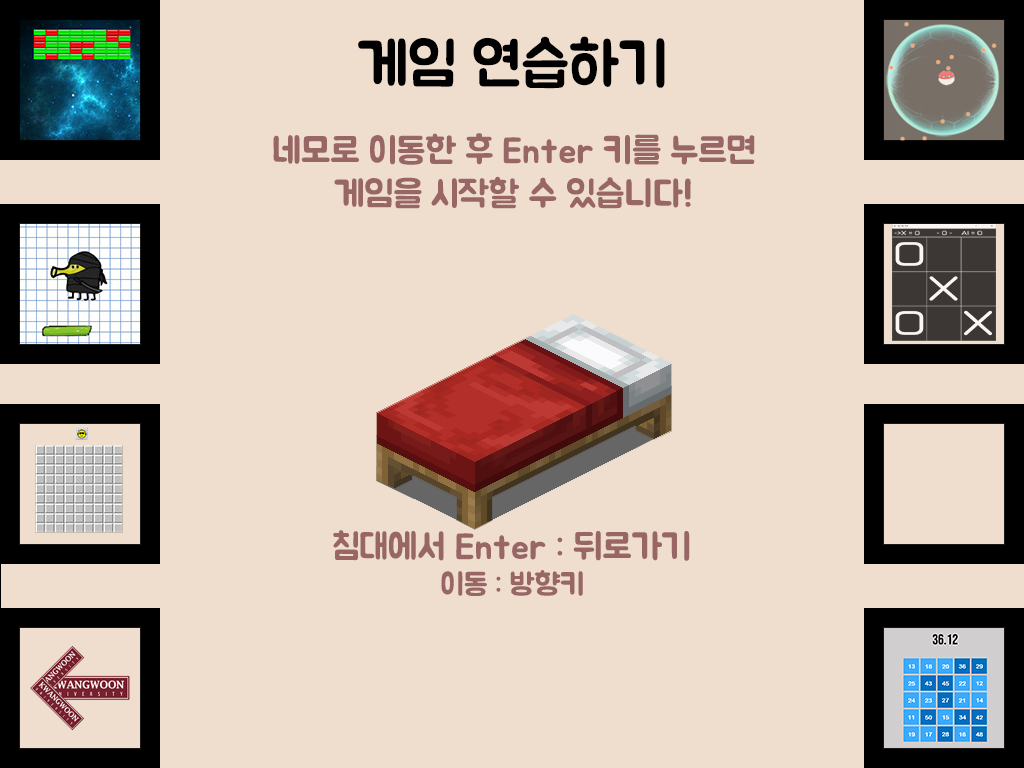
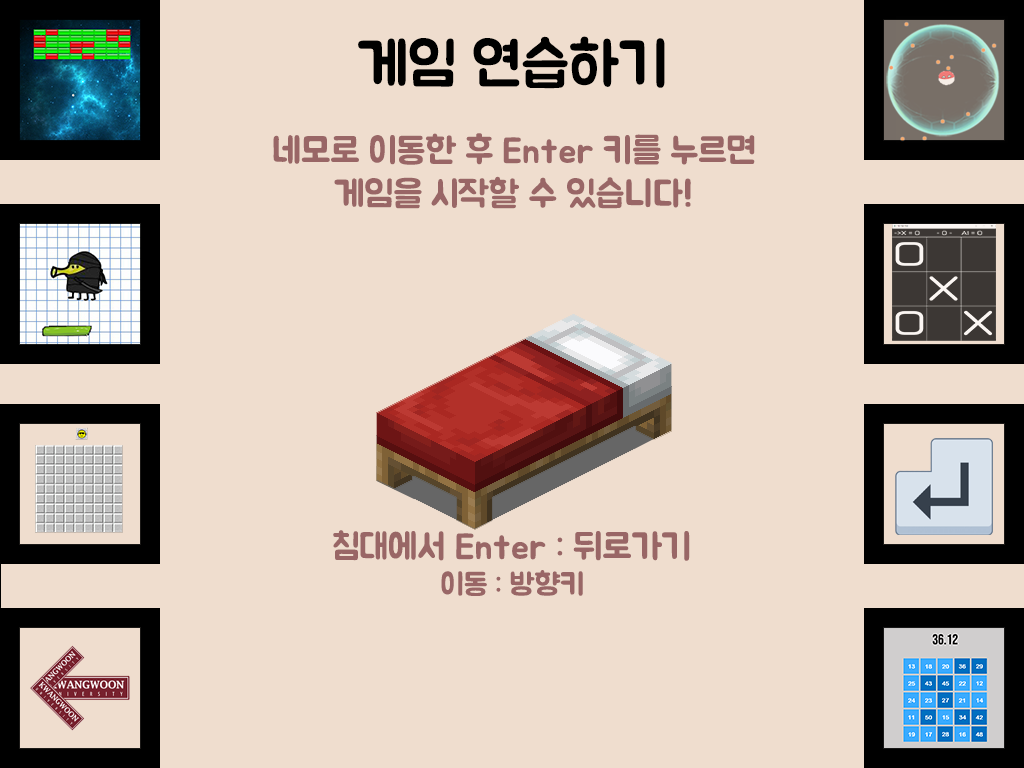
makers 메뉴 기초 작업

Changed region(s): [[0.875, 0.5625, 0.9688, 0.7188]]

diff --git a/kw_oss_team_4/game.h b/kw_oss_team_4/game.h
@@ -10,6 +10,8 @@ int main(int sw);
 void main_difficulty();
 void selectmode(int dif);
 
+void main_makers();
+
 void practice(int dif);
 
 void musicstart();
